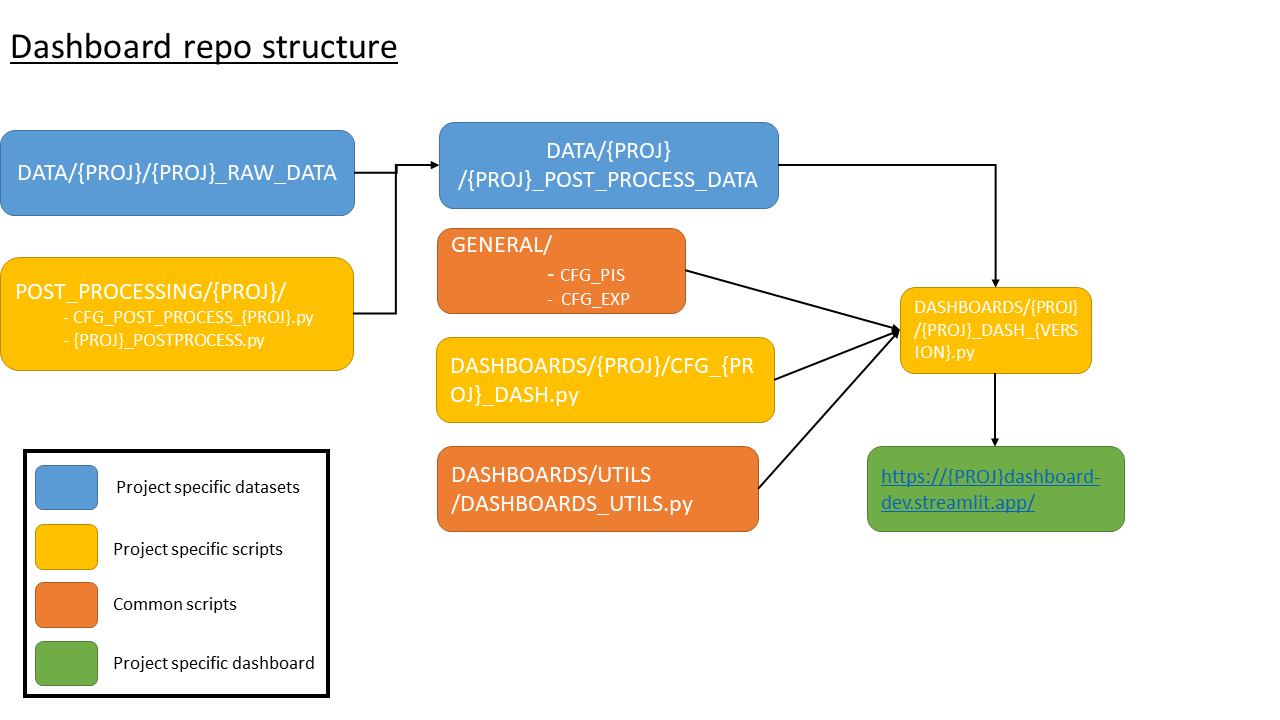
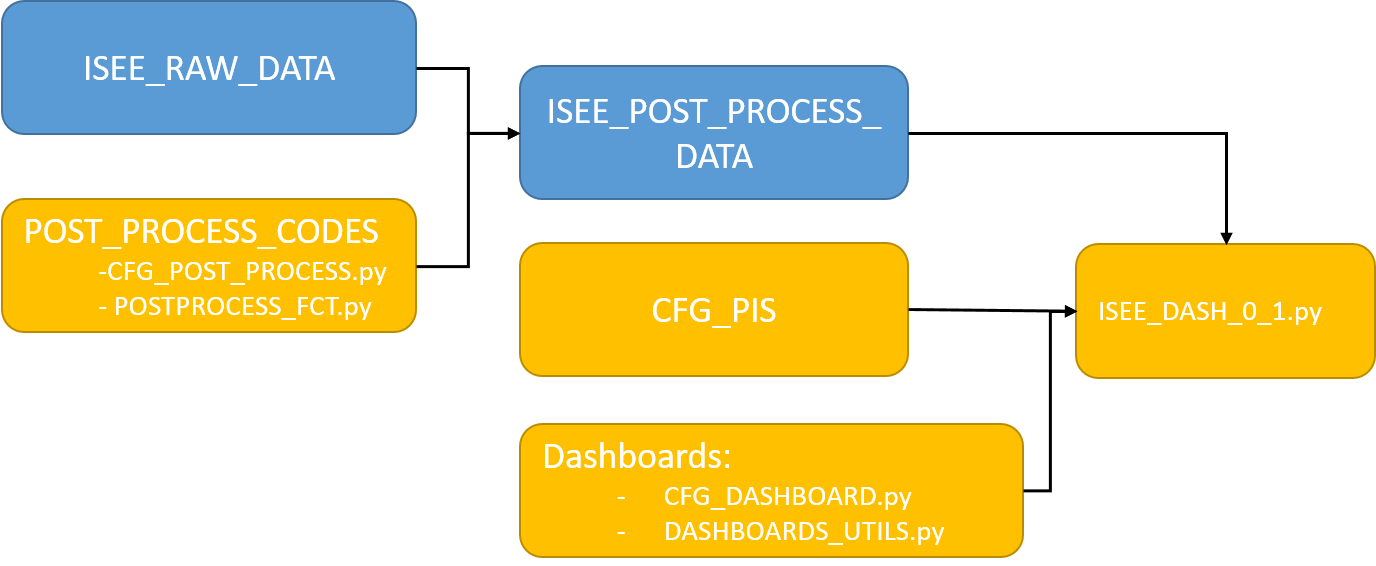
change repo scheme

diff --git a/README.md b/README.md
@@ -1,6 +1,4 @@
 # ISEE_Dashboard
 ISEE Dashboard repo
 
-[LINK to ISEE-DASH](https://iseedashboard-dev.streamlit.app/) 
-
 ![Preview](https://raw.githubusercontent.com/eccc-Antoine/ISEE_Dashboard/main/docs/assets/images/Repo_structure.png)
